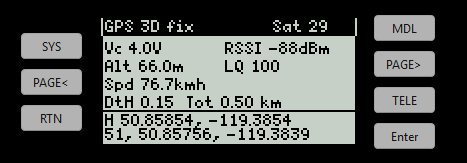
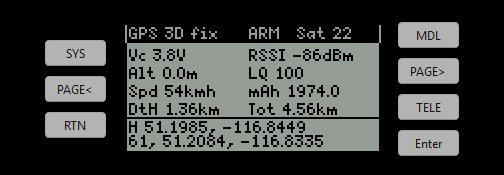
Add used mAh field and tidy the telemetry grid
- Show battery capacity used in the free slot on the Spd row, reading
  Capa with mAh/Fuel fallbacks. Draws "mAh --" when no such sensor
  exists, so a missing sensor is distinguishable from zero consumed.
- Move Tot to the second column, each distance carrying its own km,
  making the telemetry block a clean 4x2 grid.
- Round ground speed to whole km/h on screen and in the log. The
  0.1 km/h step CRSF reports sits below the GPS module's own velocity
  accuracy, and stale telemetry dominates the error anyway.
- Fix rnd(v,0) returning a float: 0 is truthy in Lua, so d==0 took the
  divide branch and x/(10^0) rendered Alt, mAh and Spd with a
  spurious ".0".

README: document the mAh field, add a section on testing in the EdgeTX
simulator, and replace absolute file:/// links to a local working copy
with relative paths that resolve on GitHub.

diff --git a/README.md b/README.md
@@ -47,9 +47,10 @@ The script displays all crucial telemetry data on a single screen:
 ### ExpressLRS / Crossfire Telemetry
 - **Cell Voltage (`Vc`):** Calculated average per-cell battery voltage (automatically estimates cell count and divides total pack voltage, or reads per-cell voltage directly if available).
 - **Altitude (`Alt`):** Real-time drone altitude in meters.
-- **Ground Speed (`Spd`):** Real-time ground speed in km/h.
+- **Ground Speed (`Spd`):** Real-time ground speed, rounded to whole km/h (the 0.1 km/h step the GPS reports is below its own accuracy, so it is dropped on screen and in the log).
 - **Link RSSI (`RSSI`):** Active uplink RSSI in dBm (uses `1RSS`, `RSS`, or `RSSI` depending on connection).
 - **Link Quality (`LQ`):** Connection link quality percentage (uses `RQly` or `RQLY`).
+- **Capacity Used (`mAh`):** Battery capacity consumed this pack, as reported by the flight controller (uses `Capa`, `mAh`, or `Fuel`). Shows `--` when no such sensor is present.
 
 ---
 
@@ -62,16 +63,33 @@ The script displays all crucial telemetry data on a single screen:
 
 ## Installation
 
-1. Copy [Boxer.lua](file:///d:/Temp/Antigravity/Boxer%20Telemetry%20Widget/Boxer.lua) to `/SCRIPTS/TELEMETRY/` on your radio's SD card.
-2. Copy [GPS Stats Boxer.lua](file:///d:/Temp/Antigravity/Boxer%20Telemetry%20Widget/GPS%20Stats%20Boxer.lua) to `/SCRIPTS/TOOLS/` on your radio's SD card.
+1. Copy [Boxer.lua](Boxer.lua) to `/SCRIPTS/TELEMETRY/` on your radio's SD card.
+2. Copy [GPS Stats Boxer.lua](GPS%20Stats%20Boxer.lua) to `/SCRIPTS/TOOLS/` on your radio's SD card.
 3. Ensure the `/LOGS/` folder exists at the root of your SD card. (Create it if it's missing, as it is needed to save the GPS log file `GPSpositions.txt`).
-4. Discover your telemetry sensors in the EdgeTX/OpenTX Telemetry menu. Ensure sensors like `GPS`, `Alt`, `Spd`, `FM` (flight mode), `RxBt`/`Cels`, and `RQly`/`1RSS` are active.
+4. Discover your telemetry sensors in the EdgeTX/OpenTX Telemetry menu. Ensure sensors like `GPS`, `Alt`, `Spd`, `FM` (flight mode), `RxBt`/`Cels`, `RQly`/`1RSS`, and `Capa` (capacity used) are active.
    
    ![Discover Sensors](media/telemetry.jpg)
 
 5. In your Model Settings, navigate to the **Display** page, configure a screen as **Telemetry**, and choose the `Boxer` script.
    
    ![Display Page Settings](media/display.jpg)
+
+---
+
+## Testing in the EdgeTX Simulator
+
+Run the script without a radio by replaying a real flight log:
+
+1. In Companion, **Settings** -> **Edit Preferences...**, point the profile's **SD path** at a folder holding `SCRIPTS/TELEMETRY/Boxer.lua`.
+2. Select the model and start the simulator. Go to **MDL** -> **Display**, set a screen's type to **Telemetry** and choose the `Boxer` script.
+3. Open **View** -> **Telemetry Simulator** (**F4**) and set **Internal Module** to **CRSF / ELRS** - match whichever bay your model's RF actually uses.
+4. Tick **Simulate**, then **Battery Monitoring**, **GPS**, **Flight Controller** and **Barometer**. Unticked groups are never transmitted, even while their fields show values.
+5. Under **Replay SD Log File**, **Load** a `.csv` log from your radio's `/LOGS/` and press **`>`**.
+6. Go to **MDL** -> **Telemetry** -> **Sensors** -> **Discover New**, then press **F7** (*Reload Lua Scripts*).
+7. Press **TELE** on the radio to open the telemetry screen.
+
+> [!NOTE]
+> Step 6 order matters: the script caches its sensor IDs in `init()`, which only runs when the script loads. Discover the sensors first, then reload. While `Capa` is missing, the screen shows `mAh --`.
 
 ---
 
@@ -100,7 +118,7 @@ The script displays all crucial telemetry data on a single screen:
 
 ## Configuration
 
-Open [Boxer.lua](file:///d:/Temp/Antigravity/Boxer%20Telemetry%20Widget/Boxer.lua) in a text editor to customize the config block at the top:
+Open [Boxer.lua](Boxer.lua) in a text editor to customize the config block at the top:
 
 ```lua
 local HOME_MODE     = "hybrid" -- "hybrid", "arm", "switch", "fix", or "manual"
